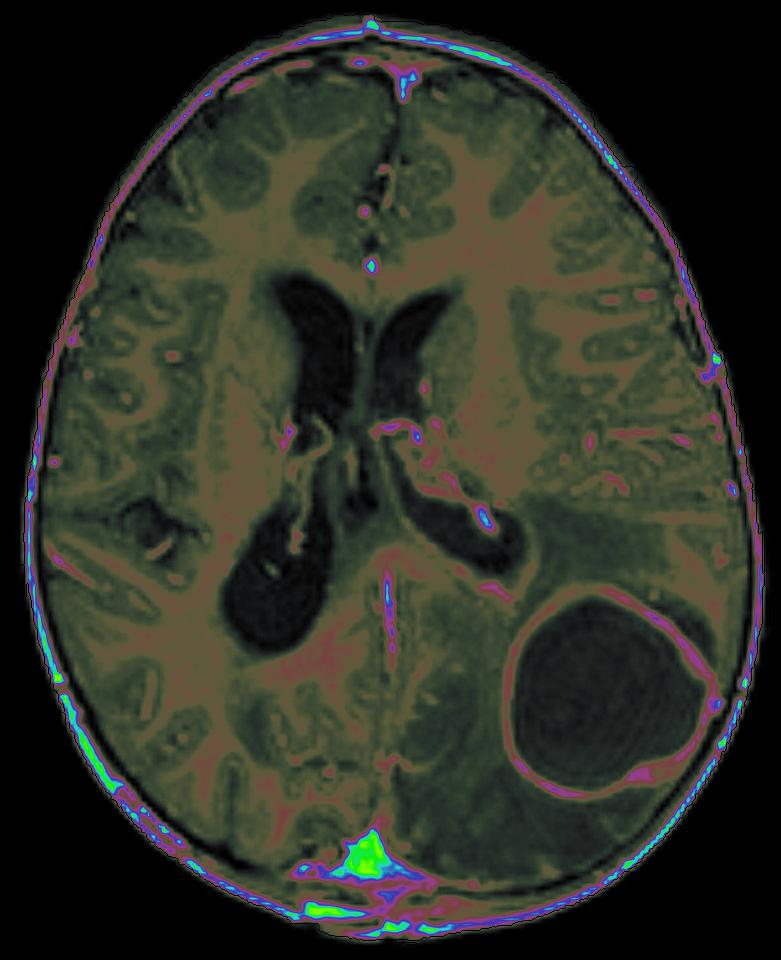
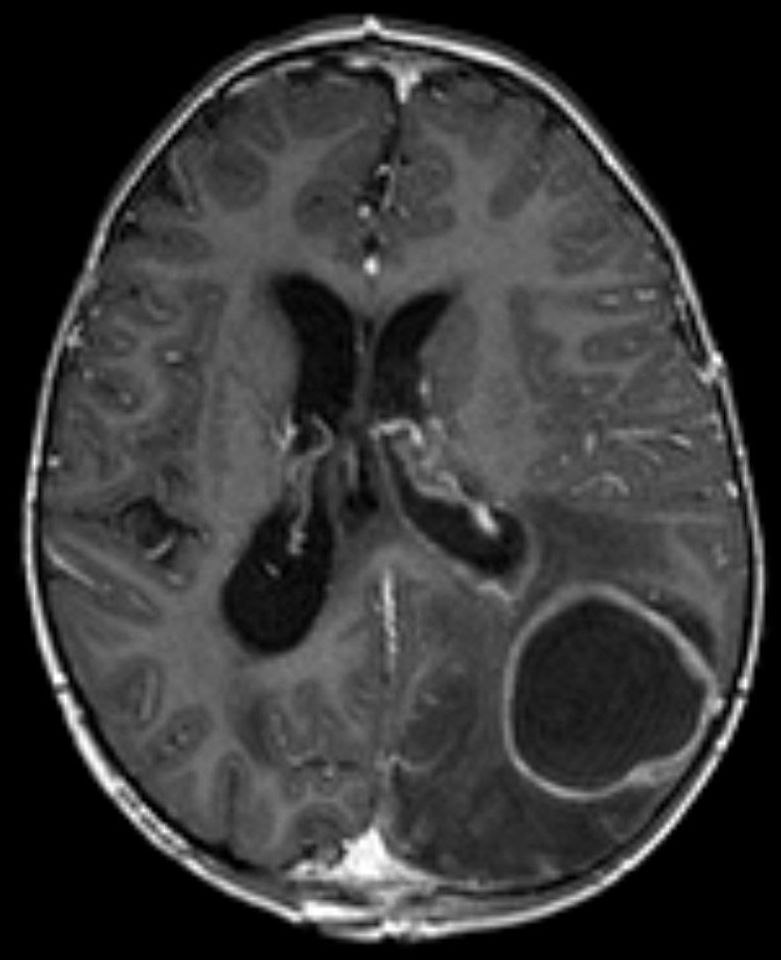
new result screen

diff --git a/static/brain/result.html b/static/brain/result.html
@@ -72,7 +72,7 @@
                         <div class="profile-image bg-primary shadow-inset border border-light rounded mx-auto p-3 mt-n6" style="height: 280px; width: 280px;">
                             <div id="imagePreview">
                             <div id="prev" style="height: 100%;width: 100%;">
-                            <img src=" {{url_for('static', filename=image_name )}}" style="height: 100%;width: 100%;">
+                            <img src=" {{url_for('static', filename=org_name )}}" style="height: 100%;width: 100%;">
                         </div>
                         </div>
                         </div>
@@ -95,8 +95,57 @@
                 </div>
             </div>
     
-        <div class="col-md-1 mb-5"></div>
-        <div class="col-md-6 mb-5">
+            <div class="col-md-7 profile-card mb-5">
+                <div class="card bg-primary shadow-inset border-light text-center">
+                    <div class="card-header">
+                        <div class="profile-image bg-primary shadow-inset border border-light rounded mx-auto p-3 mt-n6" style="height: 280px; width: 280px;">
+                            <div id="imagePreview">
+                            <div id="prev" style="height: 100%;width: 100%;">
+                            <img src=" {{url_for('static', filename=wts_name )}}" style="height: 100%;width: 100%;">
+                        </div>
+                        </div>
+                        </div>
+                        <div class="card-body p-4 p-sm-5">
+                            <div class="d-flex px-3">
+                                <div class="pl-md-5 pl-sm-4 text-center">
+                                    <h3 class="h5">Result:</h3>
+                                    <h3 class="text-success" id="result"></h3>
+                                    
+                                    <h3>Tumorous prediction</strong></h3>
+                                    <div class="progress">
+                                        <div class="progress-bar progress-bar-striped bg-dark" role="progressbar" aria-valuenow="100" aria-valuemin="0" aria-valuemax="100" style= "{{"width:" ~ class1 ~"% ; animation: 5s ease 0s 1 normal none running animate-positive"}}", opacity: "1"}}></div>
+                                    </div>
+                                    <strong>{{ class1 }} %</strong>
+                                    <h3 >Non - Tumorous prediction</h3>
+                                    <div class="progress">
+                                        <div class="progress-bar progress-bar-striped bg-dark" role="progressbar" aria-valuenow="100" aria-valuemin="0" aria-valuemax="100" style= "{{"width:" ~ class2 ~"% ; animation: 5s ease 0s 1 normal none running animate-positive"}}", opacity: "1"}}></div>
+                                    </div>
+                                <strong>{{ class2 }} %</strong>
+                                    <!-- <h3 >NOT Skin Cancer Type</h3>
+                                    <div class="progress">
+                                        <div class="progress-bar progress-bar-striped bg-dark" role="progressbar" aria-valuenow="100" aria-valuemin="0" aria-valuemax="100" style= "{{"width:" ~ class3 ~"% ; animation: 5s ease 0s 1 normal none running animate-positive"}}", opacity: "1"}}></div>
+                                    </div>
+                                <strong>{{ class3 }} %</strong> -->
+                                    <div class="progress-wrapper">
+                                <div class="progress-info">
+            
+                                </div>
+                                <div id="loader">
+                                LOADING
+                                <div class="progress">
+                                    
+                                    <div class="progress-bar progress-bar-striped bg-dark" role="progressbar" aria-valuenow="100" aria-valuemin="0" aria-valuemax="100" style="width: 60%; animation: 5s ease 0s 1 normal none running animate-positive;", opacity: "1"}}></div>
+                                </div>
+                                </div>
+                            </div>
+                                </div>
+                            </div>
+                        </div>
+                    </div>
+                </div>
+            </div>
+        <!-- <div class="col-md-1 mb-5"></div> -->
+        <!-- <div class="col-md-6 mb-5">
             <div class="row">
     
             <div class="w-100 card bg-primary shadow-soft border-light text-left mb-4 mb-md-0">
@@ -121,7 +170,7 @@
                                 <div class="progress-bar progress-bar-striped bg-dark" role="progressbar" aria-valuenow="100" aria-valuemin="0" aria-valuemax="100" style= "{{"width:" ~ class3 ~"% ; animation: 5s ease 0s 1 normal none running animate-positive"}}", opacity: "1"}}></div>
                             </div>
                         <strong>{{ class3 }} %</strong> -->
-                            <div class="progress-wrapper">
+                            <!-- <div class="progress-wrapper">
                         <div class="progress-info">
     
                         </div>
@@ -141,7 +190,7 @@
  
     
     
-</div>
+</div> -->
 </div>
 </div>
  </div>

diff --git a/app.py b/app.py
@@ -284,7 +284,7 @@ def brain():
 
 @app.route('/brain/predict', methods=['GET', 'POST'])
 def brainTumor(): 
-    target = os.path.join(APP_ROOT, 'images/')
+    target = os.path.join(APP_ROOT, 'static/')
     print(target)
     if not os.path.isdir(target):
             os.mkdir(target)
@@ -304,7 +304,7 @@ def brainTumor():
     data = np.ndarray(shape=(1, 224, 224, 3), dtype=np.float32)
 
     # Replace this with the path to your image
-    folder='images'
+    folder='static'
     ex=folder+'/'+filename
     image = Image.open(ex)
     img=cv2.imread(ex)
@@ -340,13 +340,13 @@ def brainTumor():
     class1=round(prediction[0][0]*100,2)
     class2=round(prediction[0][1]*100,2)    
     img = watershed(ex)
-    print(filename)
+    print(filename.split(".")[0]+'_rgb.jpg')
     print(class1,class2)
     # if class1 < 90:
     #     return "This image is NOT Tumorous."
     # elif class1 >= 90:  # Convert to string
     #     return "Warning! This image is tumorous. Scan is "+ str(class1) +"% tumorous and "+ str(class2) +"% non-tumorous"
-    return render_template("brain/result.html",image_name=filename,class1=class1,class2=class2)    
+    return render_template("brain/result.html",org_name=filename,class1=class1,class2=class2, wts_name=img)    
     # return render_template("complete_display_image.html",image_name=filename,class1=class1,class2=class2)
 
 if __name__ == '__main__':

diff --git a/watershed_algo.py b/watershed_algo.py
@@ -21,8 +21,9 @@ def watershed(fileName):
     Img[markers == -1] = [255, 0, 0]
     tumorImage = cv.cvtColor(Img, cv.COLOR_HSV2BGR)
     ws = Image.fromarray(tumorImage, 'RGB')
-    ws.save("static/"+ str(fileName.split("/")[-1]))
+    ws.save("static/"+ str(fileName.split("/")[-1].split(".")[0])+'_rgb.jpg')
     # ws.show()
+    return str(fileName.split("/")[-1].split(".")[0])+'_rgb.jpg'
     # return ws
     # cv.imshow('tumor_image',tumorImage)
     # k=cv.waitKey(0)
